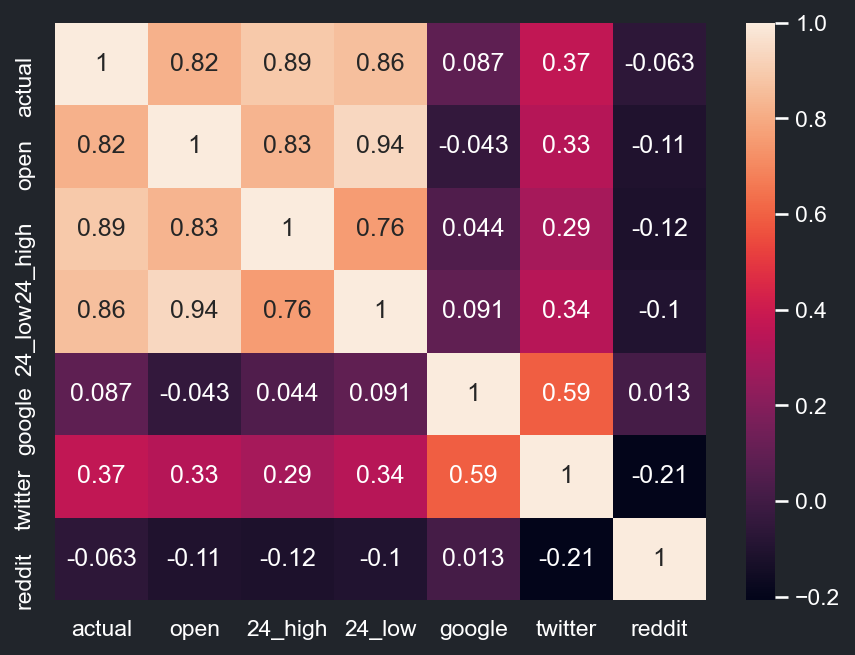
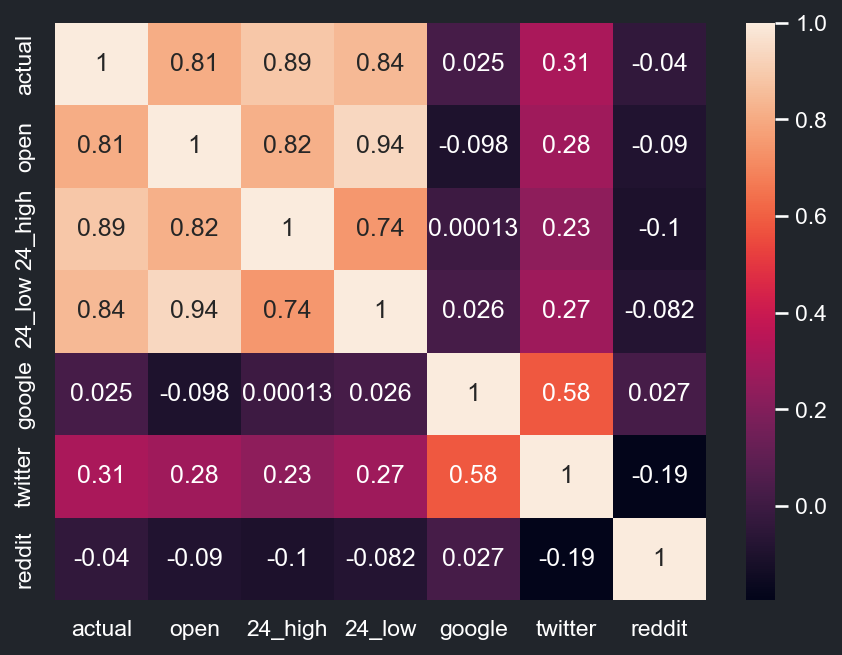
Updated Google and Twitter Scraping

diff --git a/admin/daily data/update_db.py b/admin/daily data/update_db.py
@@ -149,8 +149,8 @@ def scrape_daily_tweets():
             for i,tweet in enumerate(sntwitter.TwitterSearchScraper(twitterScraperParams).get_items()):
                     if i > maxTweets:
                         break  
-                    new_row = {'id':tweet.id, 'date':str(tweet.date), 'username':tweet.user.username, 'tweet':tweet.content}
-                    crypto_df = crypto_df.append(new_row,ignore_index=True)
+                    new_row = pd.DataFrame({'id':tweet.id, 'date':str(tweet.date), 'username':tweet.user.username, 'tweet':tweet.content}, index=[0])
+                    crypto_df = pd.concat([crypto_df,new_row],ignore_index=True,axis=0)
 
             #Print crypto dataframe
             #print ("Raw data dimensions: " + str(crypto_df.shape))
@@ -201,16 +201,15 @@ from pytrends.request import TrendReq
 def scrape_google_data():
     dfGoogle = get_data_table('Google_Data')
     lastDate = dfGoogle.loc[(len(dfGoogle)-1),'date']
-    lastDate = dt.datetime.strptime(lastDate,'%Y-%m-%d')
-    #print(lastDate) #print the lastDate from the db
 
     print('[!] Google Trends Data Scraping Starts')
     dateToday = date.today()
-    #print(dateToday)
-    #lastDate = "2022-01-02"  # ! ===TEST DATES=== ! #
-    #dateToday = "2022-01-01" # ! ===TEST DATES=== ! #
+
+    #lastDate = "2021-07-01"                                #===TEST DATES===
+    #dateToday = "2021-11-01"                               #===TEST DATES===
 
     dateRange = '2019-12-25 ' + str(dateToday)  
+    #dateToday = dt.datetime.strptime(dateToday,'%Y-%m-%d') #===SET FOR TESTING===
 
     pytrends = TrendReq(hl='en-Worldwide',tz=360)
     keyword = ['Bitcoin','btc']
@@ -257,7 +256,9 @@ def scrape_google_data():
             total_data.loc[i,'bitcoin']  = row['bitcoin']
             total_data.loc[i,'ethereum'] = row['ethereum']
             total_data.loc[i,'dogecoin'] = row['dogecoin']
-
+   
+    lastDate = dt.datetime.strptime(lastDate,'%Y-%m-%d')
+    dateToday = pd.to_datetime(dateToday,format='%Y-%m-%d') #COMMENT IF TESTING
     total_data = total_data.iloc[:-1 , :]
     total_data = total_data.loc[(total_data['Date']>str(lastDate))]
     total_data.reset_index(inplace=True,drop=True)

diff --git a/admin/model/data_analysis.py b/admin/model/data_analysis.py
@@ -34,8 +34,9 @@ def error_analysis(crypto_df, crypto_name):
         rmse_res = sqrt(mse(actualPrice, predictedPrice))
         r2_res = r2(actualPrice, predictedPrice)
         mape_res = mape(actualPrice, predictedPrice)
-        pd_data = pd.Series([mae_res , rmse_res, r2_res , mape_res], index=error_analysis_df.columns)
-        error_analysis_df = error_analysis_df.append(pd_data,ignore_index=True)
+        #pd_data = pd.Series([mae_res , rmse_res, r2_res , mape_res], index=error_analysis_df.columns)
+        pd_data = pd.DataFrame({'MAE':mae_res, 'RMSE':rmse_res, 'R-Squared':r2_res, 'Mape':mape_res}, index=[0])
+        error_analysis_df = pd.concat([error_analysis_df,pd_data],ignore_index=True,axis=0)
     # crypto_name = ['BTC','ETH','DOGE']
     tbl_idx = pd.Index(crypto_name)
     error_analysis_df = error_analysis_df.set_index(tbl_idx)
@@ -112,6 +113,6 @@ def classification_analysis(crypto_df,crypto):
     plt.savefig('images/'+crypto+'_conf.png', dpi=150, bbox_inches='tight')
     plt.close()
     
-    pd_data = pd.Series([prec_sco , rec_sco, f1_sco , acc_sco], index=classification_analysis_df.columns)
-    classification_analysis_df = classification_analysis_df.append(pd_data,ignore_index=True)
+    pd_data = pd.DataFrame({'Precision':prec_sco, 'Recall':rec_sco, 'F1-Score':f1_sco, 'Accuracy':acc_sco}, index=[0])
+    classification_analysis_df = pd.concat([classification_analysis_df,pd_data],ignore_index=True,axis=0)
     return classification_analysis_df
